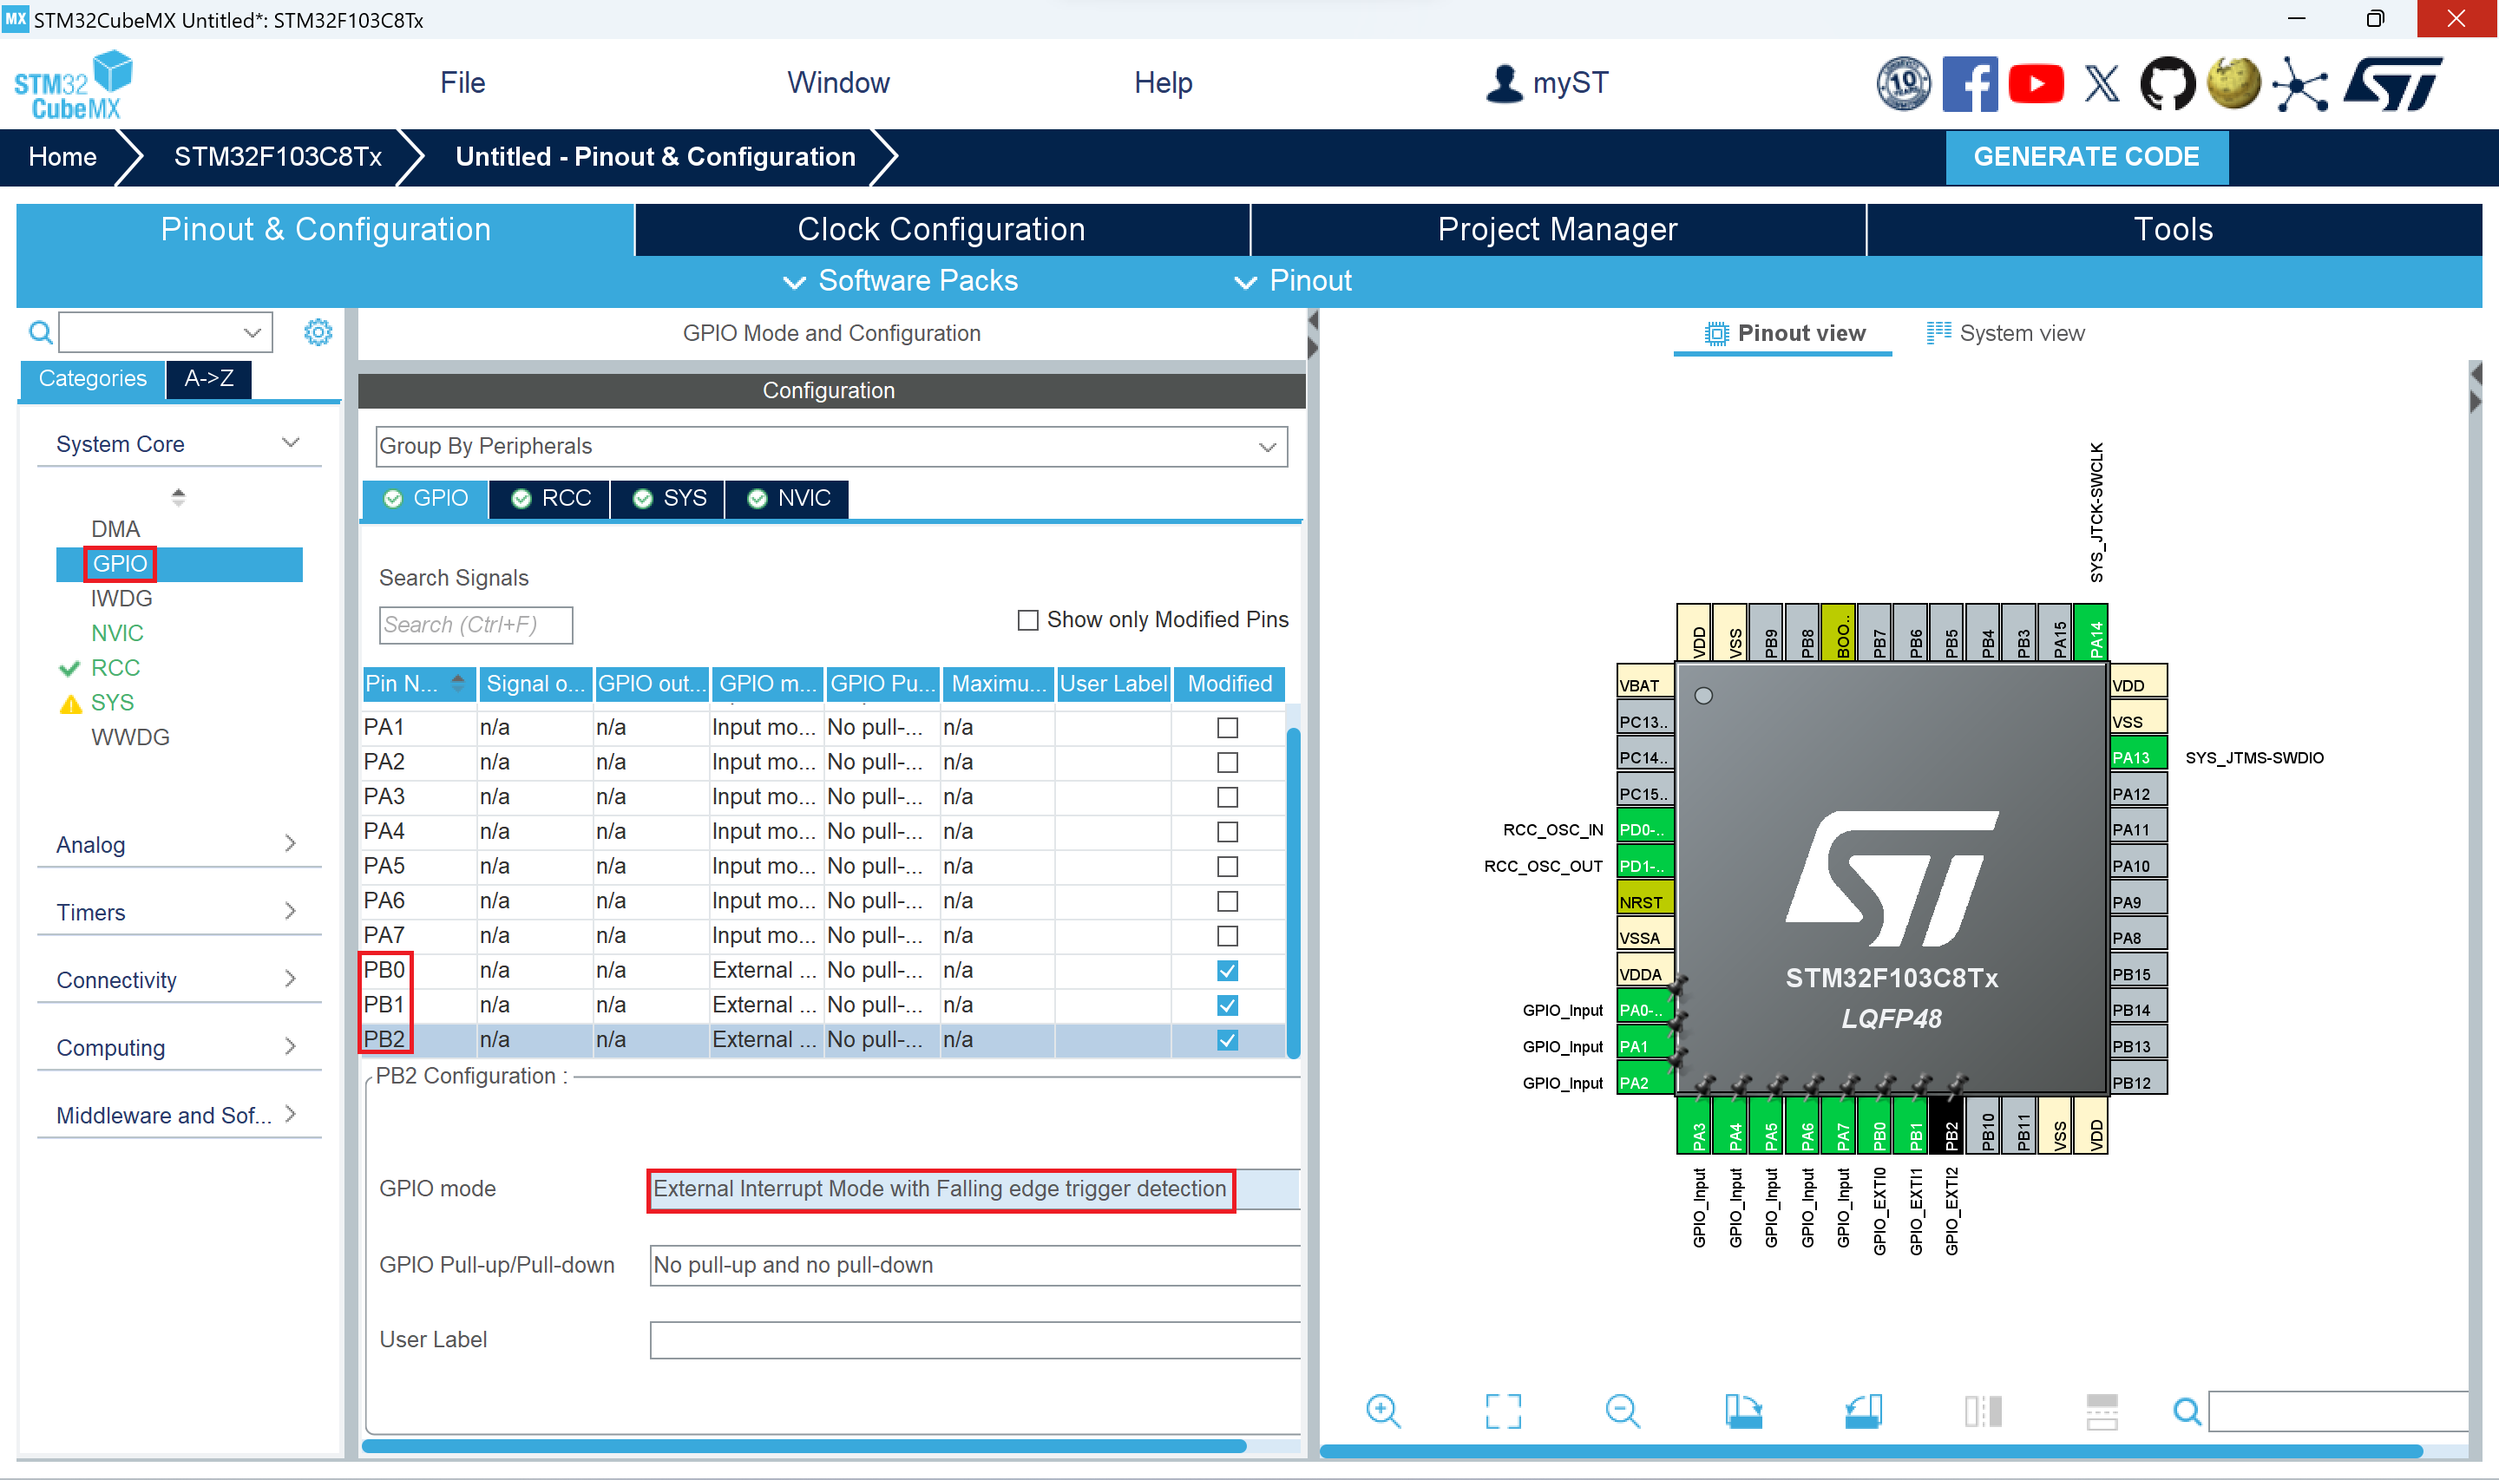
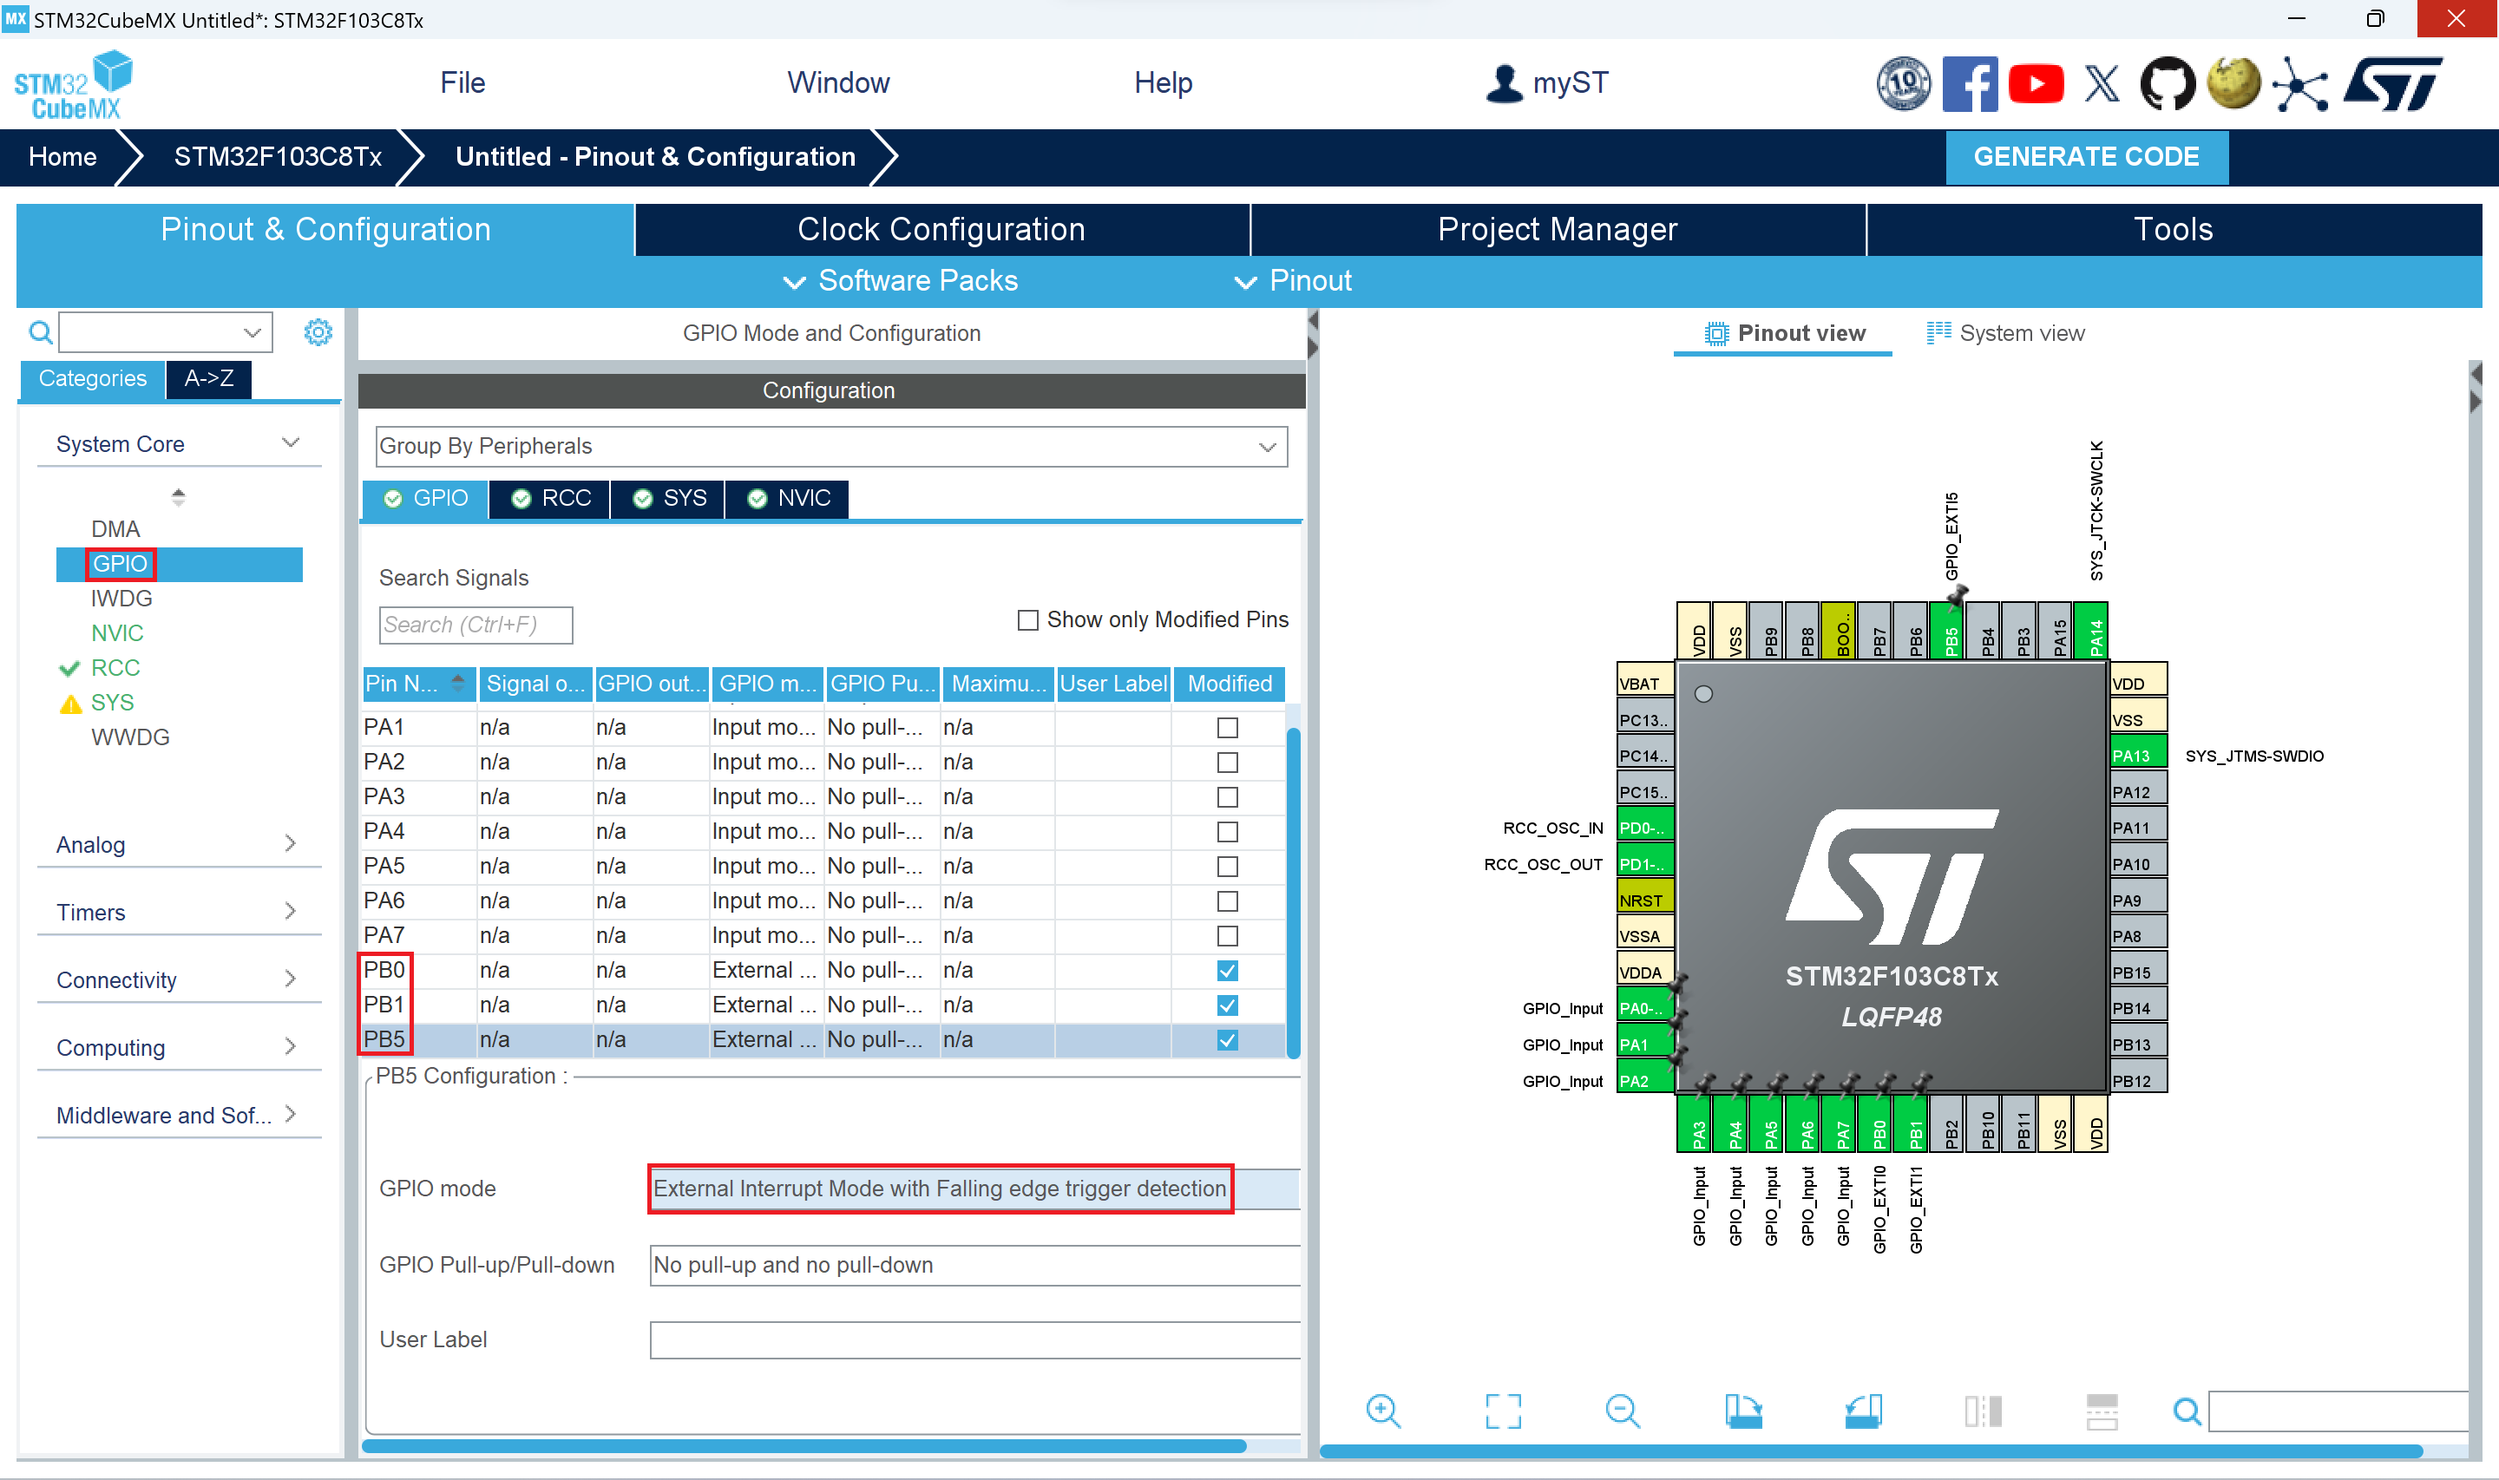
更新滑鼠中斷腳位

diff --git a/STM32/Project/Project_6_EXTI_USB_Mouse_3/Keil uVision5/main.c b/STM32/Project/Project_6_EXTI_USB_Mouse_3/Keil uVision5/main.c
@@ -1,0 +1,298 @@
+/* USER CODE BEGIN Header */
+/**
+  ******************************************************************************
+  * @file           : main.c
+  * @brief          : Main program body
+  ******************************************************************************
+  * @attention
+  *
+  * Copyright (c) 2024 STMicroelectronics.
+  * All rights reserved.
+  *
+  * This software is licensed under terms that can be found in the LICENSE file
+  * in the root directory of this software component.
+  * If no LICENSE file comes with this software, it is provided AS-IS.
+  *
+  ******************************************************************************
+  */
+/* USER CODE END Header */
+/* Includes ------------------------------------------------------------------*/
+#include "main.h"
+#include "usb_device.h"
+
+/* Private includes ----------------------------------------------------------*/
+/* USER CODE BEGIN Includes */
+#include "usbd_hid.h"
+/* USER CODE END Includes */
+
+/* Private typedef -----------------------------------------------------------*/
+/* USER CODE BEGIN PTD */
+uint8_t MouseData01[4] = {0,0,0,0};
+extern USBD_HandleTypeDef hUsbDeviceFS;
+/* USER CODE END PTD */
+
+/* Private define ------------------------------------------------------------*/
+/* USER CODE BEGIN PD */
+
+/* USER CODE END PD */
+
+/* Private macro -------------------------------------------------------------*/
+/* USER CODE BEGIN PM */
+
+/* USER CODE END PM */
+
+/* Private variables ---------------------------------------------------------*/
+
+/* USER CODE BEGIN PV */
+
+/* USER CODE END PV */
+
+/* Private function prototypes -----------------------------------------------*/
+void SystemClock_Config(void);
+static void MX_GPIO_Init(void);
+/* USER CODE BEGIN PFP */
+
+/* USER CODE END PFP */
+
+/* Private user code ---------------------------------------------------------*/
+/* USER CODE BEGIN 0 */
+
+/* USER CODE END 0 */
+
+/**
+  * @brief  The application entry point.
+  * @retval int
+  */
+int main(void)
+{
+
+  /* USER CODE BEGIN 1 */
+
+  /* USER CODE END 1 */
+
+  /* MCU Configuration--------------------------------------------------------*/
+
+  /* Reset of all peripherals, Initializes the Flash interface and the Systick. */
+  HAL_Init();
+
+  /* USER CODE BEGIN Init */
+
+  /* USER CODE END Init */
+
+  /* Configure the system clock */
+  SystemClock_Config();
+
+  /* USER CODE BEGIN SysInit */
+
+  /* USER CODE END SysInit */
+
+  /* Initialize all configured peripherals */
+  MX_GPIO_Init();
+  MX_USB_DEVICE_Init();
+  /* USER CODE BEGIN 2 */
+
+  /* USER CODE END 2 */
+
+  /* Infinite loop */
+  /* USER CODE BEGIN WHILE */
+  while (1)
+  {
+    /* USER CODE END WHILE */
+
+    /* USER CODE BEGIN 3 */
+  }
+  /* USER CODE END 3 */
+}
+
+/**
+  * @brief System Clock Configuration
+  * @retval None
+  */
+void SystemClock_Config(void)
+{
+  RCC_OscInitTypeDef RCC_OscInitStruct = {0};
+  RCC_ClkInitTypeDef RCC_ClkInitStruct = {0};
+  RCC_PeriphCLKInitTypeDef PeriphClkInit = {0};
+
+  /** Initializes the RCC Oscillators according to the specified parameters
+  * in the RCC_OscInitTypeDef structure.
+  */
+  RCC_OscInitStruct.OscillatorType = RCC_OSCILLATORTYPE_HSE;
+  RCC_OscInitStruct.HSEState = RCC_HSE_ON;
+  RCC_OscInitStruct.HSEPredivValue = RCC_HSE_PREDIV_DIV1;
+  RCC_OscInitStruct.HSIState = RCC_HSI_ON;
+  RCC_OscInitStruct.PLL.PLLState = RCC_PLL_ON;
+  RCC_OscInitStruct.PLL.PLLSource = RCC_PLLSOURCE_HSE;
+  RCC_OscInitStruct.PLL.PLLMUL = RCC_PLL_MUL6;
+  if (HAL_RCC_OscConfig(&RCC_OscInitStruct) != HAL_OK)
+  {
+    Error_Handler();
+  }
+
+  /** Initializes the CPU, AHB and APB buses clocks
+  */
+  RCC_ClkInitStruct.ClockType = RCC_CLOCKTYPE_HCLK|RCC_CLOCKTYPE_SYSCLK
+                              |RCC_CLOCKTYPE_PCLK1|RCC_CLOCKTYPE_PCLK2;
+  RCC_ClkInitStruct.SYSCLKSource = RCC_SYSCLKSOURCE_PLLCLK;
+  RCC_ClkInitStruct.AHBCLKDivider = RCC_SYSCLK_DIV1;
+  RCC_ClkInitStruct.APB1CLKDivider = RCC_HCLK_DIV2;
+  RCC_ClkInitStruct.APB2CLKDivider = RCC_HCLK_DIV1;
+
+  if (HAL_RCC_ClockConfig(&RCC_ClkInitStruct, FLASH_LATENCY_1) != HAL_OK)
+  {
+    Error_Handler();
+  }
+  PeriphClkInit.PeriphClockSelection = RCC_PERIPHCLK_USB;
+  PeriphClkInit.UsbClockSelection = RCC_USBCLKSOURCE_PLL;
+  if (HAL_RCCEx_PeriphCLKConfig(&PeriphClkInit) != HAL_OK)
+  {
+    Error_Handler();
+  }
+}
+
+/**
+  * @brief GPIO Initialization Function
+  * @param None
+  * @retval None
+  */
+static void MX_GPIO_Init(void)
+{
+  GPIO_InitTypeDef GPIO_InitStruct = {0};
+/* USER CODE BEGIN MX_GPIO_Init_1 */
+/* USER CODE END MX_GPIO_Init_1 */
+
+  /* GPIO Ports Clock Enable */
+  __HAL_RCC_GPIOD_CLK_ENABLE();
+  __HAL_RCC_GPIOA_CLK_ENABLE();
+  __HAL_RCC_GPIOB_CLK_ENABLE();
+
+  /*Configure GPIO pins : PA0 PA1 PA2 PA3
+                           PA4 PA5 PA6 PA7 */
+  GPIO_InitStruct.Pin = GPIO_PIN_0|GPIO_PIN_1|GPIO_PIN_2|GPIO_PIN_3
+                          |GPIO_PIN_4|GPIO_PIN_5|GPIO_PIN_6|GPIO_PIN_7;
+  GPIO_InitStruct.Mode = GPIO_MODE_INPUT;
+  GPIO_InitStruct.Pull = GPIO_NOPULL;
+  HAL_GPIO_Init(GPIOA, &GPIO_InitStruct);
+
+  /*Configure GPIO pins : PB0 PB1 PB5 */
+  GPIO_InitStruct.Pin = GPIO_PIN_0|GPIO_PIN_1|GPIO_PIN_5;
+  GPIO_InitStruct.Mode = GPIO_MODE_IT_FALLING;
+  GPIO_InitStruct.Pull = GPIO_NOPULL;
+  HAL_GPIO_Init(GPIOB, &GPIO_InitStruct);
+
+  /* EXTI interrupt init*/
+  HAL_NVIC_SetPriority(EXTI0_IRQn, 0, 0);
+  HAL_NVIC_EnableIRQ(EXTI0_IRQn);
+
+  HAL_NVIC_SetPriority(EXTI1_IRQn, 0, 0);
+  HAL_NVIC_EnableIRQ(EXTI1_IRQn);
+
+  HAL_NVIC_SetPriority(EXTI9_5_IRQn, 0, 0);
+  HAL_NVIC_EnableIRQ(EXTI9_5_IRQn);
+
+/* USER CODE BEGIN MX_GPIO_Init_2 */
+/* USER CODE END MX_GPIO_Init_2 */
+}
+
+/* USER CODE BEGIN 4 */
+void HAL_GPIO_EXTI_Callback(uint16_t GPIO_Pin)
+{
+	MouseData01[0] = 0x00;
+	MouseData01[1] = 0x00;
+	MouseData01[2] = 0x00;
+	int8_t CURSOR_STEP = 0;
+	
+	if(HAL_GPIO_ReadPin(GPIOA, GPIO_PIN_0) == GPIO_PIN_SET) {
+		CURSOR_STEP += 1;
+	} else {
+		CURSOR_STEP += 0;
+	}
+		
+	if(HAL_GPIO_ReadPin(GPIOA, GPIO_PIN_1) == GPIO_PIN_SET) {
+		CURSOR_STEP += 2;
+	} else {
+		CURSOR_STEP += 0;
+	}
+
+	if(HAL_GPIO_ReadPin(GPIOA, GPIO_PIN_2) == GPIO_PIN_SET) {
+		CURSOR_STEP += 4;
+	} else {
+		CURSOR_STEP += 0;
+	}
+		
+	if(HAL_GPIO_ReadPin(GPIOA, GPIO_PIN_3) == GPIO_PIN_SET) {
+		CURSOR_STEP += 8;
+	} else {
+		CURSOR_STEP += 0;
+	}
+		
+	if(HAL_GPIO_ReadPin(GPIOA, GPIO_PIN_4) == GPIO_PIN_SET) {
+		CURSOR_STEP += 16;
+	} else {
+		CURSOR_STEP += 0;
+	}
+		
+	if(HAL_GPIO_ReadPin(GPIOA, GPIO_PIN_5) == GPIO_PIN_SET) {
+		CURSOR_STEP += 32;
+	} else {
+		CURSOR_STEP += 0;
+	}
+		
+	if(HAL_GPIO_ReadPin(GPIOA, GPIO_PIN_6) == GPIO_PIN_SET) {
+		CURSOR_STEP += 64;
+	} else {
+		CURSOR_STEP += 0;
+	}
+		
+	if(HAL_GPIO_ReadPin(GPIOA, GPIO_PIN_7) == GPIO_PIN_SET) {
+		CURSOR_STEP -= 128;
+	} else {
+		CURSOR_STEP += 0;
+	}
+	
+	if(GPIO_Pin == GPIO_PIN_0) {
+		MouseData01[1] = CURSOR_STEP;
+		USBD_HID_SendReport(&hUsbDeviceFS, (uint8_t*)&MouseData01, sizeof(MouseData01));
+  	} else if(GPIO_Pin == GPIO_PIN_1) {
+		MouseData01[2] = CURSOR_STEP;
+		USBD_HID_SendReport(&hUsbDeviceFS, (uint8_t*)&MouseData01, sizeof(MouseData01));
+  	} else if(GPIO_Pin == GPIO_PIN_5) {
+		MouseData01[0] = 0x01;
+		USBD_HID_SendReport(&hUsbDeviceFS, (uint8_t*)&MouseData01, sizeof(MouseData01));
+  	} else {
+      	__NOP();
+  }
+}
+/* USER CODE END 4 */
+
+/**
+  * @brief  This function is executed in case of error occurrence.
+  * @retval None
+  */
+void Error_Handler(void)
+{
+  /* USER CODE BEGIN Error_Handler_Debug */
+  /* User can add his own implementation to report the HAL error return state */
+  __disable_irq();
+  while (1)
+  {
+  }
+  /* USER CODE END Error_Handler_Debug */
+}
+
+#ifdef  USE_FULL_ASSERT
+/**
+  * @brief  Reports the name of the source file and the source line number
+  *         where the assert_param error has occurred.
+  * @param  file: pointer to the source file name
+  * @param  line: assert_param error line source number
+  * @retval None
+  */
+void assert_failed(uint8_t *file, uint32_t line)
+{
+  /* USER CODE BEGIN 6 */
+  /* User can add his own implementation to report the file name and line number,
+     ex: printf("Wrong parameters value: file %s on line %d\r\n", file, line) */
+  /* USER CODE END 6 */
+}
+#endif /* USE_FULL_ASSERT */

diff --git a/STM32/Project/Project_6_EXTI_USB_Mouse_3/STM32CubeMX/README.md b/STM32/Project/Project_6_EXTI_USB_Mouse_3/STM32CubeMX/README.md
@@ -9,7 +9,7 @@
 在`Pinout view`中完成下面三項操作  
 1. 在`PB0`腳位上左鍵選擇`GPIO_EXTI0`  
 2. 在`PB1`腳位上左鍵選擇`GPIO_EXTI1`  
-3. 在`PB2`腳位上左鍵選擇`GPIO_EXTI2`  
+3. 在`PB5`腳位上左鍵選擇`GPIO_EXTI5`  
   
 ![3.png](pictures/3.png "3.png")
   
@@ -28,14 +28,14 @@
 點擊`System Core`中的`GPIO`選項  
 1. 把`PB0`的 GPIO mode 改為`External Interrupt Mode with Falling edge trigger detection`  
 2. 把`PB1`的 GPIO mode 改為`External Interrupt Mode with Falling edge trigger detection`  
-3. 把`PB2`的 GPIO mode 改為`External Interrupt Mode with Falling edge trigger detection`  
+3. 把`PB5`的 GPIO mode 改為`External Interrupt Mode with Falling edge trigger detection`  
   
 ![5.png](pictures/5.png "5.png")
   
 點擊`NVIC`選項  
 1. 將`EXTI line0 interrupt`的 Enabled 打勾  
 2. 將`EXTI line1 interrupt`的 Enabled 打勾  
-3. 將`EXTI line2 interrupt`的 Enabled 打勾  
+3. 將`EXTI line[9:5] interrupts`的 Enabled 打勾  
   
 ![6.png](pictures/6.png "6.png")
   

diff --git a/STM32/Project/Project_6_EXTI_USB_Mouse_3/Keil uVision5/README.md b/STM32/Project/Project_6_EXTI_USB_Mouse_3/Keil uVision5/README.md
@@ -79,7 +79,7 @@ void HAL_GPIO_EXTI_Callback(uint16_t GPIO_Pin)
   	} else if(GPIO_Pin == GPIO_PIN_1) {
 		MouseData01[2] = CURSOR_STEP;
 		USBD_HID_SendReport(&hUsbDeviceFS, (uint8_t*)&MouseData01, sizeof(MouseData01));
-  	} else if(GPIO_Pin == GPIO_PIN_2) {
+  	} else if(GPIO_Pin == GPIO_PIN_5) {
 		MouseData01[0] = 0x01;
 		USBD_HID_SendReport(&hUsbDeviceFS, (uint8_t*)&MouseData01, sizeof(MouseData01));
   	} else {
